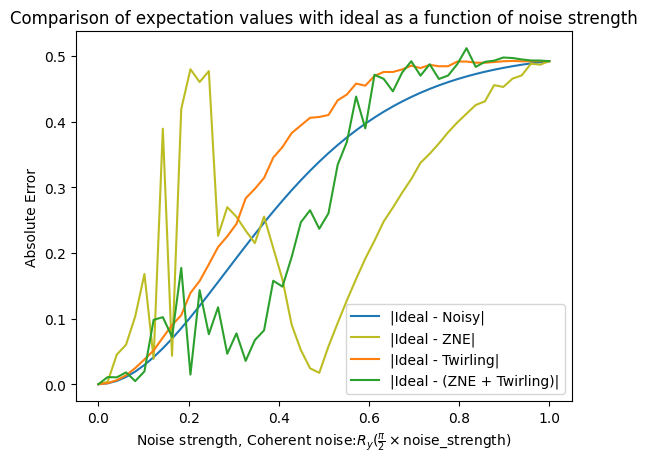
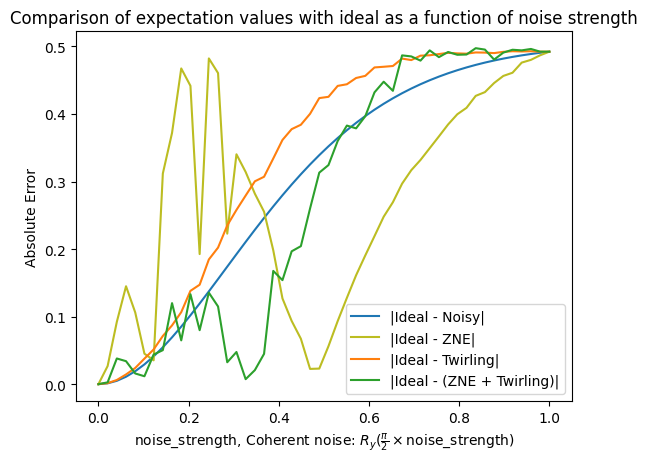
some of Alessandro's comments

diff --git a/docs/source/examples/pt_zne.md b/docs/source/examples/pt_zne.md
@@ -33,7 +33,7 @@ By the end of the example, you will understand when and how noise tailoring can 
 
 Noise on quantum devices can be broadly categorized into two types: _coherent_ and _incoherent_. Each has different properties that can be unfavorable toward a quantum circuit in different ways.
 
-**Coherent noise** is a reversible process as long as the noisy unitary transformation is known beforehand which is not always the case. These types of noise maintain the purity of the state. But in a quantum circuit subjected to coherent noise, the errors are easily carried across the circuit. This can be discerned through the **average gate infidelity** $r(\mathcal{E})$ . When coherent errors contribute to a portion of the total error-rate, the worst case infidelity can scale as $\sqrt{r(\mathcal{E})}$ {cite}`Wallman_2014` which in turn reduces the performance of a quantum device by orders of magnitude. Thus, dealing with coherent noise requires a large resource overhead to acquire inferred knowledge of the noise unitaries which can then be used to reverse the effects.
+**Coherent noise** is a reversible process as long as the noisy unitary transformation is known beforehand which is not always the case. These types of noise maintain the purity of the state. But in a quantum circuit subjected to coherent noise, the errors are easily carried across the circuit. This can be discerned through the **average gate infidelity** $r(\mathcal{E})$ where $\mathcal{E}$ is some noise channel. When coherent errors contribute to a portion of the total error-rate, the worst case infidelity can scale as $\sqrt{r(\mathcal{E})}$ {cite}`Wallman_2014` which in turn reduces the performance of a quantum device by orders of magnitude. Thus, dealing with coherent noise requires a large resource overhead to acquire inferred knowledge of the noise unitaries which can then be used to reverse the effects.
 
 ```{note}
 If $\mathcal{F}$ is the average noisy gate fidelity {cite}`Nielsen_2002` defining the success of preparing an arbitrary pure state $\rho$, then $r(\mathcal{E}) := 1 - \mathcal{F}$ is called the **average gate infidelity**.
@@ -41,7 +41,7 @@ If $\mathcal{F}$ is the average noisy gate fidelity {cite}`Nielsen_2002` definin
 
 **Incoherent noise** is a process that results in the quantum system entangling with its environment i.e. this type of noise is irreversible. The system and the environment end up in a mixed state. This type of noise scales linearly in the small error limit. The noise channel can be described using Pauli operators which makes it easy to analyze and simulate. Worst case error rate is directly proportional to the **average gate infidelity**. 
 
-For example, a depolarizing noise channel is a stochastic noise channel where a noiseless process is probabilistically mixed with orthogonal errors. Pauli twirling strives to convert some noise channel into a Pauli noise channel or approximately close to a Pauli noise channel. This conversion is determined by the depth of the circuit, coherent noise strength and the total number of Pauli twirled circuits used. As shown in Eq.{math:numref}`depolarizing_noise` and {math:numref}`depolarizing_noise_Paulis`, a local depolarizing noise channel can be described using Paulis i.e. it can be said that Pauli twirling tailors a noise channel into a local depolarizing noise channel {cite}`Garc_a_Mart_n_2024`.  
+For example, a depolarizing noise channel is a stochastic noise channel where a noiseless process is probabilistically mixed with orthogonal errors. Pauli twirling strives to convert some noise channel into a Pauli noise channel or approximately close to a Pauli noise channel. This conversion is determined by the depth of the circuit, coherent noise strength and the total number of Pauli twirled circuits used. As shown in Eqs.{math:numref}`depolarizing_noise` and {math:numref}`depolarizing_noise_Paulis` below, a local depolarizing noise channel can be described using Paulis i.e. it can be said that Pauli twirling tailors a noise channel into a local depolarizing noise channel {cite}`Garc_a_Mart_n_2024`.  
 
 If $\rho$ is a single qubit state, $p$ is the probabilistic error rate and $\mathcal{E}(\rho)$ is the noise channel:
 
@@ -64,16 +64,16 @@ $$(depolarizing_noise_Paulis)
 
 ### Pauli Transfer Matrix (PTM)
 
-Let $\Lambda(\rho)$ be an $n$-qubit noise channel with corresponding Kraus operators $K_i$.
+Let $\Lambda(\rho)$ be an $n$-qubit noise channel with corresponding $N$ Kraus operators $K_i$.
 
 $$
-\Lambda(\rho) = \sum_{i=1} K_i \rho {K_i}^\dagger 
+\Lambda(\rho) = \sum_{i=1}^{N} K_i \rho {K_i}^\dagger 
 $$(CPTP_map)
 
 When all $K_i$ are $n$-qubit Pauli operators, the channel is called a **Pauli channel**.
 
 
-If $P_i$ and $P_j$ are lexicographically ordered $n$-qubit Paulis $\forall P_i, P_j \in \{I, X, Y, Z \}^{\otimes n}$, Eq. {math:numref}`PTM_expression` defines the entries of a Pauli Transfer Matrix (PTM). Here, 
+If $P_i$ and $P_j$ are lexicographically ordered $n$-qubit Paulis $\forall P_i, P_j \in \{I, X, Y, Z \}^{\otimes n}$, the following Eq. {math:numref}`PTM_expression` defines the entries of a Pauli Transfer Matrix (PTM). Here, 
 $i$ defines the rows while $j$ defines the columns of the PTM.
 
 $$
@@ -85,10 +85,12 @@ All entries of the PTM are real and in the interval $[-1, 1]$. A PTM allows us t
 The known fault tolerant thresholds for stochastic noise are higher than coherent noise which makes the former a 'preferable' type of noise compared to the latter. To avoid dealing with coherent noise, Pauli twirling can be used to tailor coherent noise to incoherent noise. Same as Eq {math:numref}`depolarizing_noise_Paulis`, when a coherent noise channel is Pauli twirled, the noise channel can be described using Paulis after averaging over multiple Pauli twirled circuits. Refer to the [Pauli Twirling user guide](../guide/pt.md) for additional information. 
 
 It is worth noting that the number of Pauli twirled circuits required to transform coherent noise to incoherent noise depends on the circuit used, noise stength, etc.
-Generally, the higher the number of generated twirled circuits, the better the result.
-Similarly, better results are obtained more quickly when the coherent noise strength is low.
+
+Generally, the higher the number of generated twirled circuits, the better the result. Similarly, better results are obtained more quickly when the coherent noise strength is low.
 
 ## Using Pauli Twirling in Mitiq
+
+To demonstrate the differences in the two types of noise discussed in the previous section, we utilize ideal and noisy variations to a circuit comprising a CNOT gate and the functions available in the Pauli twirling module {mod}`.pt`.
 
 ```{code-cell} ipython3
 
@@ -352,25 +354,29 @@ error_no_zne_no_twirling = []
 error_with_twirling = []
 error_with_twirling_and_zne = []
 zne_vals = []
-ideal_values = []
 NUM_TWIRLED_VARIANTS = 30
 
+ideal_value = execute(circuit, noise_level=0.0)
+
 for strength in noise_strength:
-    ideal_value = execute(circuit, noise_level=0.0)
-    ideal_values.append(ideal_value)
+
+    # get noisy expectation values and compare to ideal
     noisy_value = execute(circuit, noise_level=strength)
     id_noisy_diff = abs(ideal_value-noisy_value)
     error_no_zne_no_twirling.append(id_noisy_diff)
 
+    # get expectation values after pauli twirling and compare to ideal
     twirled_circuits = generate_pauli_twirl_variants(circuit, num_circuits=NUM_TWIRLED_VARIANTS)
     pt_vals = Executor(partial(execute, noise_level=strength)).evaluate(twirled_circuits)
     twirled_result = np.average(pt_vals)
     twirled_noisy_diff = abs(ideal_value-twirled_result)
     error_with_twirling.append(twirled_noisy_diff)
 
+    # get expectation values after ZNE and compare to ideal
     executor=partial(execute, noise_level=strength)
     zne_vals.append(abs(ideal_value - execute_with_zne(circuit, executor)))
-    
+
+    # get expectation values after combining pauli twirling and ZNE then compare to ideal
     zne_pt_vals = []
     for i in twirled_circuits:
         zne_pt_vals.append(execute_with_zne(i, executor))
@@ -383,7 +389,7 @@ plt.plot(noise_strength, zne_vals, "", label=r"|Ideal - ZNE|", color="#bcbd22")
 plt.plot(noise_strength, error_with_twirling,"", label=r"|Ideal - Twirling|", color="#ff7f0e")
 plt.plot(noise_strength, error_with_twirling_and_zne, "", label=r"|Ideal - (ZNE + Twirling)|", color="#2ca02c")
 
-plt.xlabel(r"Noise strength, Coherent noise:$R_y(\frac{\pi}{2} \times \text{noise_strength})$")
+plt.xlabel(r"noise_strength, Coherent noise: $R_y(\frac{\pi}{2} \times \text{noise_strength})$")
 plt.ylabel("Absolute Error")
 plt.title("Comparison of expectation values with ideal as a function of noise strength")
 plt.legend()
